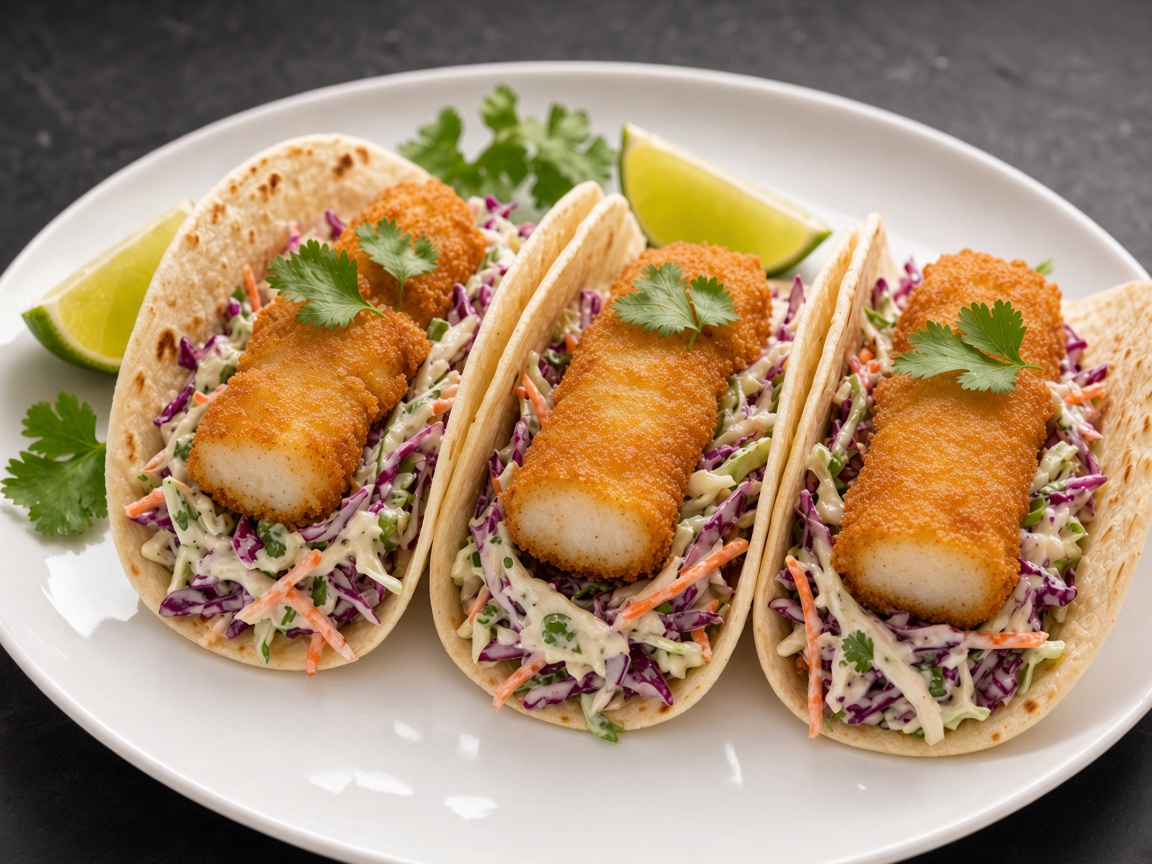
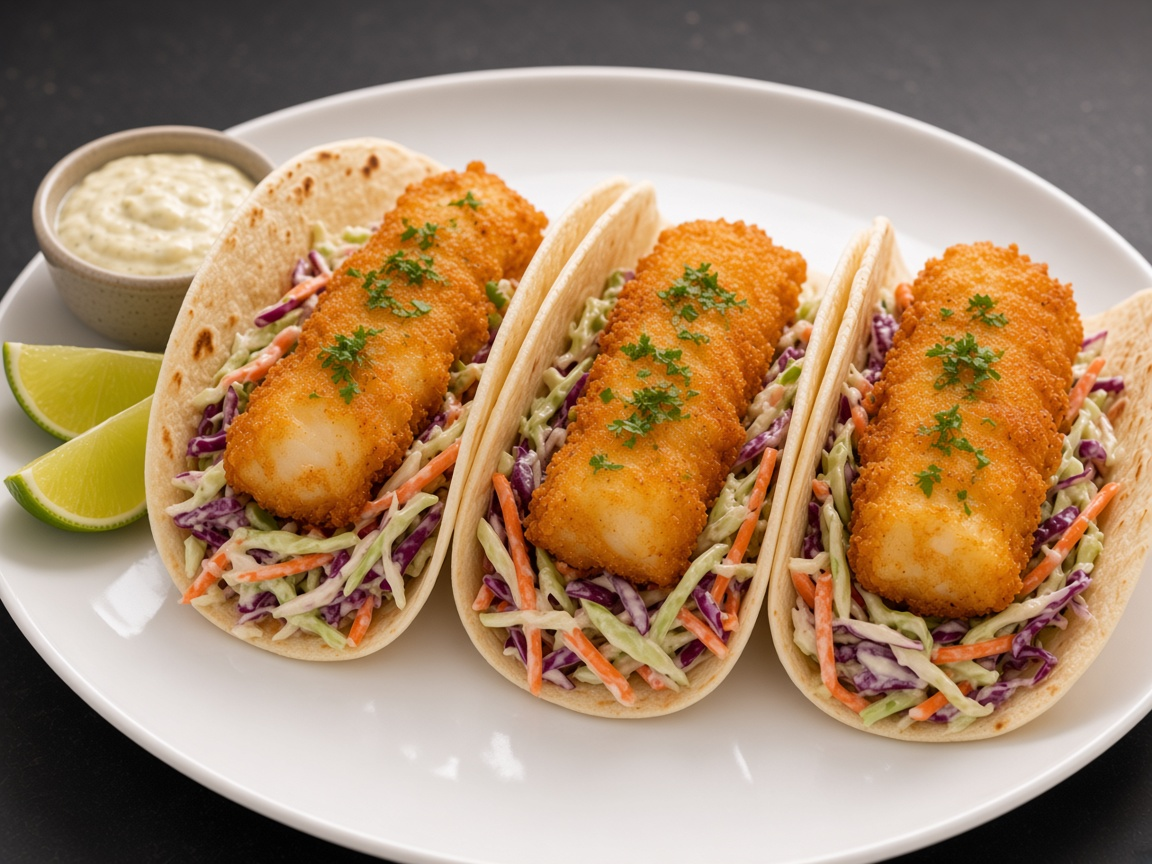
Serve festive slaw with tartar on the side

diff --git a/api/tacoMenu.js b/api/tacoMenu.js
@@ -12,7 +12,7 @@ RULES (always):
 - Guest memory: use KNOWN GUEST MEMORY in your instructions when the name matches — that is real for this session.
 - One protein per item / plate — never mix proteins on the same order item.
 - Mild or spicy when they choose.
-- Proteins: braised shredded beef (never ground — slow-cooked with carrots, celery & taco seasoning like a beef stew, cooled, shredded, simmered again), braised shredded chicken, braised shredded pork, shrimp seasoned & grilled to perfection, and crispy battered cod with house lime tartar slaw.
+- Proteins: braised shredded beef (never ground — slow-cooked with carrots, celery & taco seasoning like a beef stew, cooled, shredded, simmered again), braised shredded chicken, braised shredded pork, shrimp seasoned & grilled to perfection, and crispy battered cod with festive lime slaw.
 - NOT ON MENU: ribeye burrito, one-taco $5 special, taco bowls, burrito bowls, party platters, steak taco, filet, veggie/tofu.
 
 TACO MAPPING (CRITICAL):
@@ -26,7 +26,7 @@ TACO MAPPING (CRITICAL):
 
 COOKING METHOD (say when they ask how it's made — short; do not dump on every order):
 Beef, chicken & pork are braised / shredded — never ground. Beef: slow-cooked with carrots, celery & taco seasoning (like a good beef stew), cooled, shredded, simmered again. Shrimp: seasoned & grilled to perfection.
-Crispy cod tacos: generous pieces of golden battered cod over colorful house lime tartar slaw with red, white and green cabbage, carrots, jalapeño, cilantro and a little hot sauce, served in warm soft wheat tortillas.
+Crispy cod tacos: generous pieces of golden battered cod over crisp festive slaw with green and red cabbage, carrots, jicama, lime, a light splash of white wine or apple cider vinegar and a little cilantro, served in warm soft wheat tortillas. The slaw is bright and non-creamy; tartar sauce is served on the side.
 
 ENCHILADA PITCH (first-time guests / when they ask how enchiladas are made — warm, simple, one short beat):
 "Our enchiladas are packed with braised shredded beef, slow-cooked like a rich beef stew, then wrapped in soft tortillas, smothered in sauce, melted cheese on top — ready to finish with sour cream or pico. Pure comfort right out of the oven."

diff --git a/api/realtime-token.js b/api/realtime-token.js
@@ -198,7 +198,7 @@ module.exports = async function handler(req, res) {
     'ENCHILADAS: "chicken enchilada(s)" / "one enchilada chicken" = Two Enchiladas · Shredded Chicken — ONE line, qty 1. Lock immediately.',
     'BURRITO / QUESADILLA: "a burrito" / "one quesadilla" with protein = ONE menu line for that item.',
     'TACOS: "beef taco(s)" = Three Tacos · Shredded Beef $13.49. Pork = Three Tacos · Shredded Pork $13.49. Shrimp = Three Tacos · Grilled Shrimp $21.99. "fish tacos" / "cod tacos" = Three Tacos · Crispy Cod $21.99.',
-    'CRISPY COD is tacos only — generous battered cod with colorful house lime tartar slaw in warm soft wheat tortillas. Do not offer cod burritos, enchiladas or quesadillas.',
+    'CRISPY COD is tacos only — generous battered cod with crisp festive lime slaw (green and red cabbage, carrots, jicama, vinegar, lime and light cilantro) in warm soft wheat tortillas, with tartar sauce on the side. The slaw is not creamy. Do not offer cod burritos, enchiladas or quesadillas.',
     'TACO PLATE only if they say dinner / plate / with rice and beans: Taco Plate · [protein] — ONE line (includes rice & beans).',
     'BURRITOS: "beef burrito" = Burrito · Shredded Beef $13.49 — LOCK NOW. Chicken/pork/shrimp burritos lock the same way.',
     'BURRITO + rice and beans / two sides / dinner / plate = Burrito Plate · Beef (etc.) $20.49 on YOUR ticket — ONE add_order_line. The website shows Burrito qty 1 AND Add two sides qty 1.',

diff --git a/menu-descriptions.html b/menu-descriptions.html
@@ -76,7 +76,7 @@
     <div class="item"><div class="item-head"><span class="name">Three Tacos &middot; Shredded Chicken</span><span class="price">$13.49</span></div><div class="desc">Three tacos, all braised shredded chicken. Same protein on every taco.</div></div>
     <div class="item"><div class="item-head"><span class="name">Three Tacos &middot; Pork</span><span class="price">$13.49</span></div><div class="desc">Three tacos, all braised shredded pork. Same protein on every taco.</div></div>
     <div class="item"><div class="item-head"><span class="name">Three Tacos &middot; Grilled Shrimp</span><span class="price">$21.99</span></div><div class="desc">Three tacos, all seasoned grilled shrimp. Same protein on every taco.</div></div>
-    <div class="item"><div class="item-head"><span class="name">Three Tacos &middot; Crispy Cod</span><span class="price">$21.99</span></div><div class="desc">Three warm soft wheat tacos with generous crispy battered cod and colorful house lime tartar slaw.</div></div>
+    <div class="item"><div class="item-head"><span class="name">Three Tacos &middot; Crispy Cod</span><span class="price">$21.99</span></div><div class="desc">Three warm soft wheat tacos with generous crispy battered cod and festive cabbage-jicama lime slaw. Tartar sauce on the side.</div></div>
   </section>
 
   <section>

diff --git a/menu-print.html b/menu-print.html
@@ -284,7 +284,7 @@
       </div>
       <div class="protein">
         <div class="who">Crispy Cod</div>
-        <div class="row"><span class="name">Three tacos · lime tartar slaw</span><span class="dots"></span><span class="price">$21.99</span></div>
+        <div class="row"><span class="name">Three tacos · festive lime slaw</span><span class="dots"></span><span class="price">$21.99</span></div>
         <div class="row dinner"><span class="name">Dinner plate</span><span class="dots"></span><span class="price">$28.99</span></div>
       </div>
     </div>

diff --git a/index.html b/index.html
@@ -996,7 +996,7 @@
         <div class="card">
           <div class="card-media"><img src="images/menu/tacos-cod.jpg" alt="Three Tacos · Crispy Cod" /></div>
           <h3>Crispy cod tacos</h3>
-          <p class="meta">3 per order · Lime tartar slaw</p>
+          <p class="meta">3 per order · Festive lime slaw</p>
           <div class="order-row" data-item-id="tacos-cod">
             <div class="order-row-copy">
               <span class="order-row-label">Three tacos</span>
